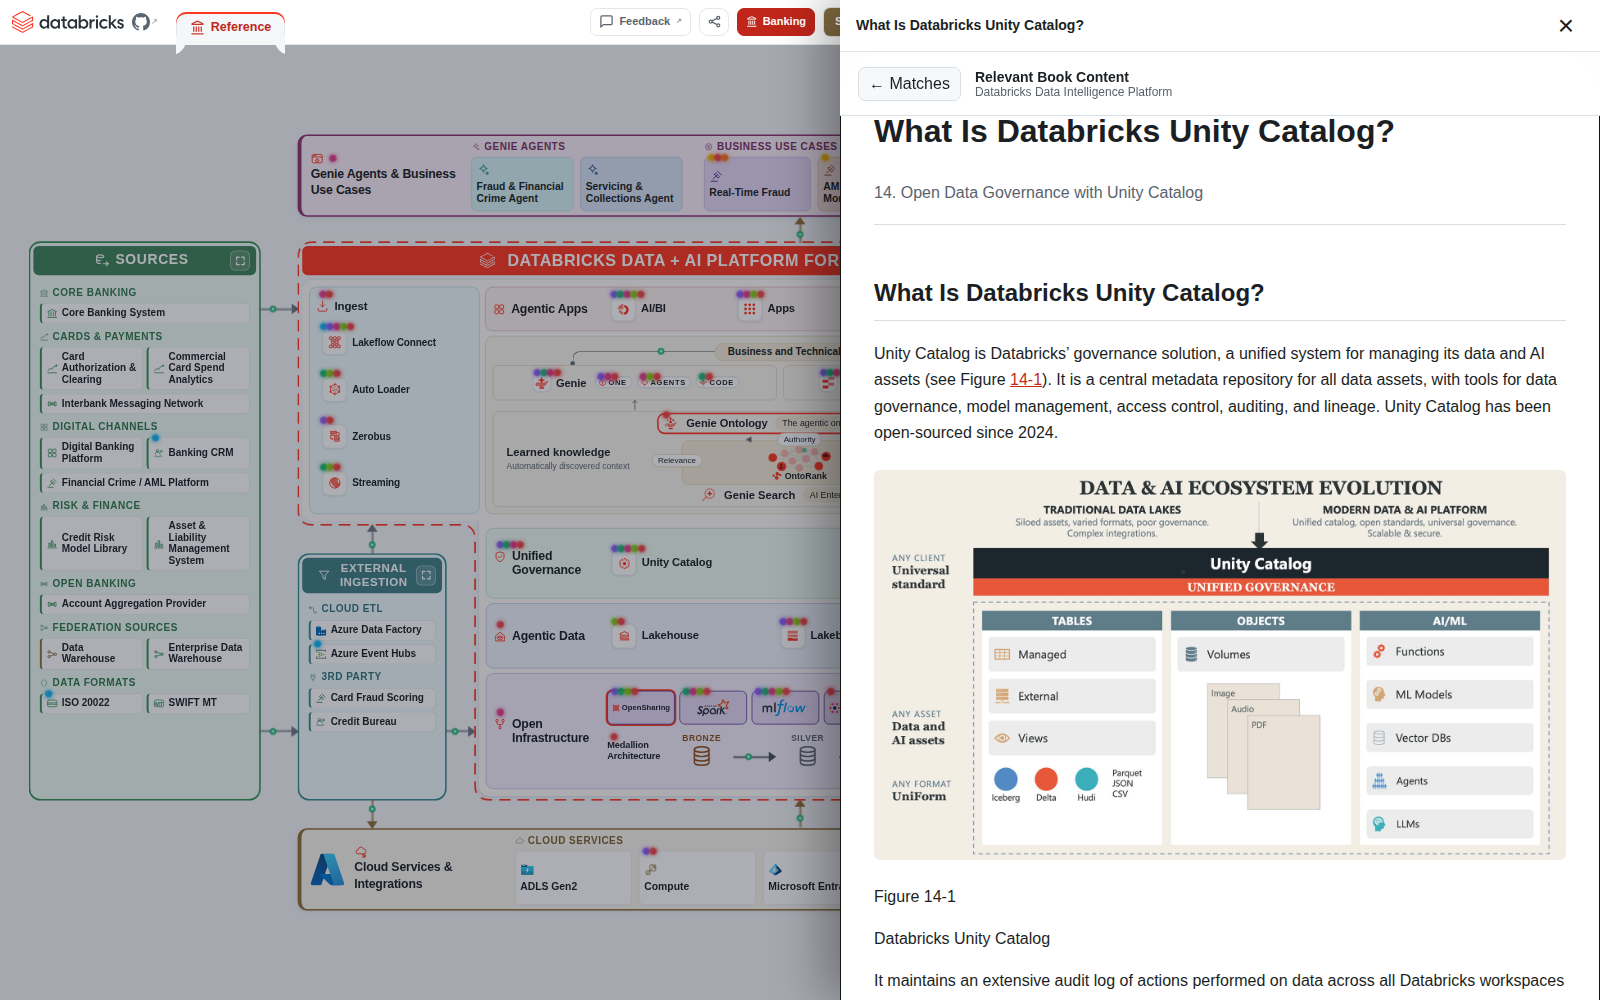
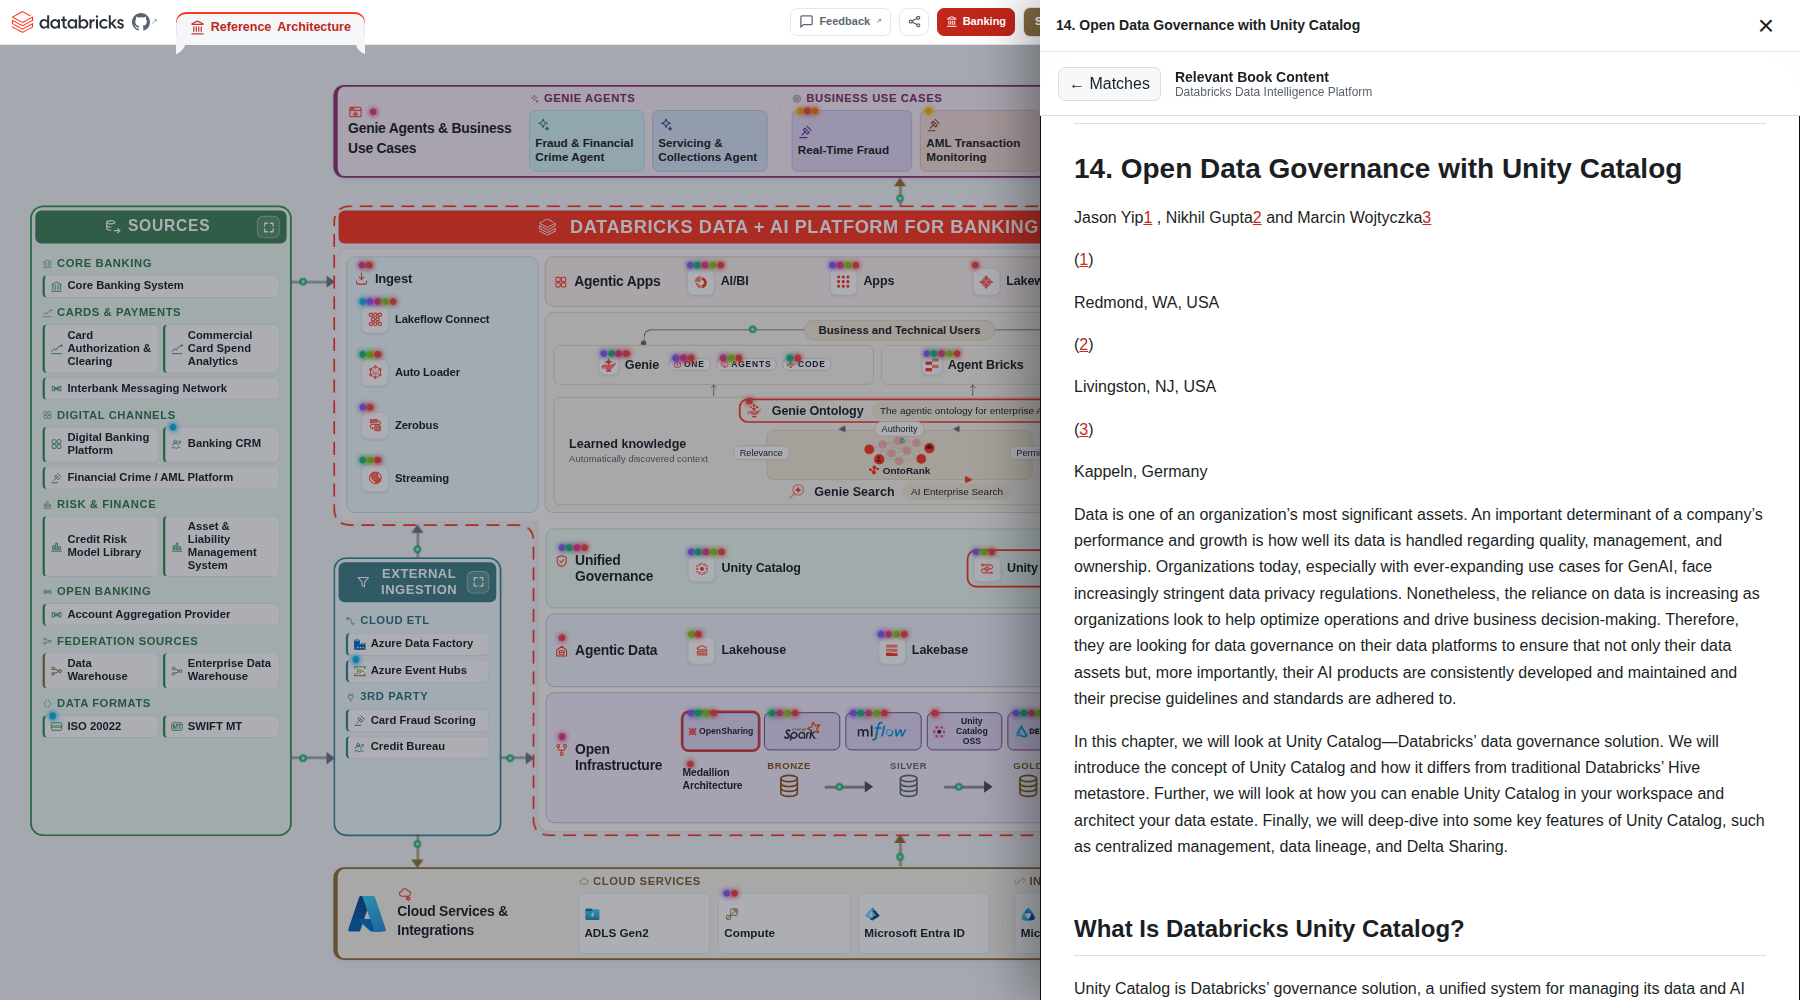
Improve book previews and add chapter view

diff --git a/addon/reader/reader.css b/addon/reader/reader.css
@@ -1,3 +1,3 @@
 :root{font-family:Inter,-apple-system,BlinkMacSystemFont,"Segoe UI",sans-serif;color:#1b1f24;background:#fff;--accent:#ff3621;--line:#d8dee4;--muted:#59636e;--panel:#f6f8fa;--code:#f3f4f6}
-*{box-sizing:border-box}body{margin:0;min-height:100vh;background:inherit;color:inherit}button{font:inherit}.reader-header{position:sticky;top:0;z-index:10;display:flex;align-items:center;gap:14px;min-height:64px;padding:10px 18px;border-bottom:1px solid var(--line);background:color-mix(in srgb,#fff 94%,transparent);backdrop-filter:blur(12px)}.reader-title{display:flex;flex-direction:column}.reader-title strong{font-size:14px}.reader-title span{font-size:12px;color:var(--muted)}.back-button{padding:7px 10px;border:1px solid var(--line);border-radius:7px;background:var(--panel);color:inherit;cursor:pointer}.content{width:min(780px,100%);margin:0 auto;padding:32px 34px 72px;line-height:1.65}.empty-state{padding:80px 24px;text-align:center;color:var(--muted)}.empty-state h1{color:inherit;font-size:1.35rem}.context-head{margin-bottom:22px}.context-head p{margin:.35rem 0 0;color:var(--muted)}.matches{display:grid;gap:12px}.match-card{display:block;width:100%;padding:16px;border:1px solid var(--line);border-radius:10px;background:var(--panel);color:inherit;text-align:left;cursor:pointer}.match-card:hover,.match-card:focus{border-color:var(--accent);box-shadow:0 0 0 2px color-mix(in srgb,var(--accent) 16%,transparent)}.match-card strong,.match-card span,.match-card small{display:block}.match-card span{margin-top:3px;color:var(--accent);font-weight:600}.match-card small{margin-top:7px;color:var(--muted);line-height:1.45}.passage-head{margin-bottom:28px;padding-bottom:18px;border-bottom:1px solid var(--line)}.passage-head p{margin:.3rem 0 0;color:var(--muted)}.passage h1{font-size:1.75rem;line-height:1.2}.passage h2{margin-top:2em;border-bottom:1px solid var(--line);padding-bottom:.3em}.passage h3{margin-top:1.7em}.passage a{color:#c52b19}.passage img{display:block;max-width:100%;height:auto;margin:24px auto;border-radius:6px}.passage pre{overflow:auto;padding:16px;border-radius:8px;background:var(--code)}.passage code{font-family:"SFMono-Regular",Consolas,monospace}.passage table{display:block;max-width:100%;overflow:auto;border-collapse:collapse}.passage th,.passage td{padding:8px 10px;border:1px solid var(--line);vertical-align:top}.passage blockquote{margin-left:0;padding-left:18px;border-left:4px solid var(--line);color:var(--muted)}.reader-license{margin-top:40px;padding-top:16px;border-top:1px solid var(--line);color:var(--muted);font-size:11px}.reader-license a{color:inherit}
+*{box-sizing:border-box}body{margin:0;min-height:100vh;background:inherit;color:inherit}button{font:inherit}.reader-header{position:sticky;top:0;z-index:10;display:flex;align-items:center;gap:14px;min-height:64px;padding:10px 18px;border-bottom:1px solid var(--line);background:color-mix(in srgb,#fff 94%,transparent);backdrop-filter:blur(12px)}.reader-title{display:flex;flex-direction:column}.reader-title strong{font-size:14px}.reader-title span{font-size:12px;color:var(--muted)}.back-button{padding:7px 10px;border:1px solid var(--line);border-radius:7px;background:var(--panel);color:inherit;cursor:pointer}.content{width:min(780px,100%);margin:0 auto;padding:32px 34px 72px;line-height:1.65}.empty-state{padding:80px 24px;text-align:center;color:var(--muted)}.empty-state h1{color:inherit;font-size:1.35rem}.context-head{margin-bottom:22px}.context-head p{margin:.35rem 0 0;color:var(--muted)}.matches{display:grid;gap:12px}.match-card{display:block;width:100%;padding:16px;border:1px solid var(--line);border-radius:10px;background:var(--panel);color:inherit;text-align:left;cursor:pointer}.match-card:hover,.match-card:focus{border-color:var(--accent);box-shadow:0 0 0 2px color-mix(in srgb,var(--accent) 16%,transparent)}.match-card strong,.match-card span,.match-card small{display:block}.match-card span{margin-top:3px;color:var(--accent);font-weight:600}.match-card small{margin-top:7px;color:var(--muted);line-height:1.45}.passage-head{margin-bottom:28px;padding-bottom:18px;border-bottom:1px solid var(--line)}.passage-head p{margin:.3rem 0 0;color:var(--muted)}.chapter-head{color:var(--muted);font-size:13px;text-transform:uppercase;letter-spacing:.06em}.passage h1{font-size:1.75rem;line-height:1.2}.passage h2{margin-top:2em;border-bottom:1px solid var(--line);padding-bottom:.3em}.passage h3{margin-top:1.7em}.passage a{color:#c52b19}.passage img{display:block;max-width:100%;height:auto;margin:24px auto;border-radius:6px}.passage pre{overflow:auto;padding:16px;border-radius:8px;background:var(--code)}.passage code{font-family:"SFMono-Regular",Consolas,monospace}.passage table{display:block;max-width:100%;overflow:auto;border-collapse:collapse}.passage th,.passage td{padding:8px 10px;border:1px solid var(--line);vertical-align:top}.passage blockquote{margin-left:0;padding-left:18px;border-left:4px solid var(--line);color:var(--muted)}.reader-license{margin-top:40px;padding-top:16px;border-top:1px solid var(--line);color:var(--muted);font-size:11px}.reader-license a{color:inherit}
 @media (prefers-color-scheme:dark){:root{color:#e6edf3;background:#0d1117;--line:#30363d;--muted:#9da7b3;--panel:#161b22;--code:#161b22}.reader-header{background:color-mix(in srgb,#0d1117 94%,transparent)}.passage a{color:#ff7463}}html.theme-dark{color:#e6edf3;background:#0d1117;--line:#30363d;--muted:#9da7b3;--panel:#161b22;--code:#161b22}html.theme-dark .reader-header{background:color-mix(in srgb,#0d1117 94%,transparent)}html.theme-dark .passage a{color:#ff7463}@media(max-width:700px){.reader-header{padding:9px 12px}.content{padding:24px 18px 60px}.reader-title span{display:none}.passage h1{font-size:1.45rem}}@media print{.reader-header{display:none}.content{max-width:none;padding:0}}

diff --git a/integration/addon-host.js b/integration/addon-host.js
@@ -35,16 +35,16 @@
 
   function close(){
     if(!current)return;current.remove();current=null;currentFrame=null;document.body.classList.remove("addon-open");
-    const params=new URLSearchParams(location.search);for(const key of ["addon","chapter","section"])params.delete(key);history.replaceState(history.state,"",location.pathname+(params.size?"?"+params.toString():"")+location.hash);if(opener)opener.focus();
+    const params=new URLSearchParams(location.search);for(const key of ["addon","chapter","section","bookView"])params.delete(key);history.replaceState(history.state,"",location.pathname+(params.size?"?"+params.toString():"")+location.hash);if(opener)opener.focus();
   }
 
   function sendContext(){if(currentFrame&&currentContext)currentFrame.contentWindow.postMessage({type:"databricks-addon-context",context:currentContext,matches:currentMatches},location.origin)}
-  function open(addon,button,match){
+  function open(addon,button,match,view="section"){
     close();const entry=sameOrigin(addon.entry);if(!entry)return;const params=new URLSearchParams(location.search);params.set("addon",addon.id);
-    if(match){params.set("chapter",match.chapter);params.set("section",match.section);entry.searchParams.set("chapter",match.chapter);entry.searchParams.set("section",match.section)}
+    if(match){params.set("chapter",match.chapter);entry.searchParams.set("chapter",match.chapter);params.set("bookView",view);entry.searchParams.set("view",view);if(view==="section"){params.set("section",match.section);entry.searchParams.set("section",match.section)}else params.delete("section")}
     history.replaceState(history.state,"",location.pathname+"?"+params.toString()+location.hash);entry.searchParams.set("embedded","1");entry.searchParams.set("theme",document.body.classList.contains("theme-dark")?"dark":"light");
     const shell=document.createElement("section");shell.className="addon-shell";shell.setAttribute("role","dialog");shell.setAttribute("aria-modal","true");shell.setAttribute("aria-label",addon.title);
-    const head=document.createElement("header");const title=document.createElement("strong");title.textContent=match?match.sectionTitle:addon.title;const closeButton=document.createElement("button");closeButton.type="button";closeButton.className="addon-close";closeButton.setAttribute("aria-label","Close "+addon.title);closeButton.textContent="×";closeButton.addEventListener("click",close);
+    const head=document.createElement("header");const title=document.createElement("strong");title.textContent=match?(view==="chapter"?match.chapterTitle:match.sectionTitle):addon.title;const closeButton=document.createElement("button");closeButton.type="button";closeButton.className="addon-close";closeButton.setAttribute("aria-label","Close "+addon.title);closeButton.textContent="×";closeButton.addEventListener("click",close);
     const frame=document.createElement("iframe");frame.src=entry.href;frame.title=addon.title;frame.loading="eager";frame.addEventListener("load",()=>{frame.contentWindow.addEventListener("keydown",event=>{if(event.key==="Escape")close()});sendContext()});
     head.append(title,closeButton);shell.append(head,frame);document.body.append(shell);current=shell;currentFrame=frame;opener=button;document.body.classList.add("addon-open");closeButton.focus();
   }
@@ -57,7 +57,10 @@
     body.dataset.bookContext=signature;currentContext=context;currentMatches=rank(context);body.querySelectorAll(".addon-context-card").forEach(node=>node.remove());
     if(!currentMatches.length){sendContext();return}
     const card=document.createElement("section");card.className="addon-context-card";const heading=document.createElement("h4");heading.textContent="From the book";card.append(heading);
-    for(const match of currentMatches){const button=document.createElement("button");button.type="button";button.className="addon-context-link";button.innerHTML="<strong></strong><span></span><em></em><b>Open passage →</b>";button.querySelector("strong").textContent=match.sectionTitle;button.querySelector("span").textContent=match.chapterTitle;button.querySelector("em").textContent=match.excerpt;button.addEventListener("click",()=>open(contextAddon,contextButton,match));card.append(button)}
+    for(const match of currentMatches){
+      const item=document.createElement("article");item.className="addon-context-link";item.innerHTML="<strong></strong><span></span><p></p><div class=\"addon-context-actions\"></div>";item.querySelector("strong").textContent=match.sectionTitle;item.querySelector("span").textContent=match.chapterTitle;item.querySelector("p").textContent=match.excerpt;
+      const actions=item.querySelector(".addon-context-actions");const sectionButton=document.createElement("button");sectionButton.type="button";sectionButton.textContent="Read section";sectionButton.addEventListener("click",()=>open(contextAddon,contextButton,match,"section"));const chapterButton=document.createElement("button");chapterButton.type="button";chapterButton.className="secondary";chapterButton.textContent="Open chapter";chapterButton.addEventListener("click",()=>open(contextAddon,contextButton,match,"chapter"));actions.append(sectionButton,chapterButton);card.append(item);
+    }
     body.prepend(card);sendContext();
   }
 

diff --git a/integration/addon-host.css b/integration/addon-host.css
@@ -1,1 +1,1 @@
-.addon-slot{display:flex;align-items:center}.addon-launcher svg{width:16px;height:16px;fill:none;stroke:currentColor;stroke-width:1.7;stroke-linejoin:round}.addon-context-card{margin:0 0 22px;padding:0 0 16px;border-bottom:1px solid var(--line,#d8dee4)}.addon-context-link{display:block;width:100%;margin:8px 0;padding:10px 12px;border:1px solid var(--line,#d8dee4);border-radius:8px;background:var(--paper,#fff);color:inherit;text-align:left;cursor:pointer}.addon-context-link:hover,.addon-context-link:focus{border-color:var(--brand,#ff3621);box-shadow:0 0 0 2px color-mix(in srgb,var(--brand,#ff3621) 14%,transparent)}.addon-context-link strong,.addon-context-link span,.addon-context-link em,.addon-context-link b{display:block}.addon-context-link span{margin-top:3px;color:var(--muted,#59636e);font-size:11px}.addon-context-link em{display:none;margin-top:8px;color:var(--ink,#1b1f24);font-size:12px;font-style:normal;line-height:1.45}.addon-context-link b{display:none;margin-top:7px;color:var(--brand,#ff3621);font-size:11px}.addon-context-link:hover em,.addon-context-link:focus em,.addon-context-link:hover b,.addon-context-link:focus b{display:block}.addon-shell{position:fixed;z-index:10020;top:0;right:0;bottom:0;width:min(760px,92vw);display:grid;grid-template-rows:52px 1fr;background:var(--paper,#fff);box-shadow:-16px 0 48px #0005}.addon-shell>header{display:flex;align-items:center;justify-content:space-between;padding:0 16px;border-bottom:1px solid var(--line,#d8dee4);background:var(--paper,#fff)}.addon-shell iframe{width:100%;height:100%;border:0;background:#fff}.addon-close{width:36px;height:36px;border:0;border-radius:7px;background:transparent;color:inherit;font-size:28px;line-height:1;cursor:pointer}.addon-close:hover{background:#8882}.addon-open{overflow:hidden}@media(max-width:700px){.addon-shell{width:100vw}.addon-launcher span{display:none}.addon-context-link em,.addon-context-link b{display:block}}@media print{.addon-slot,.addon-context-card,.addon-shell{display:none!important}}
+.addon-slot{display:flex;align-items:center}.addon-launcher svg{width:16px;height:16px;fill:none;stroke:currentColor;stroke-width:1.7;stroke-linejoin:round}.addon-context-card{margin:0 0 22px;padding:0 0 18px;border-bottom:1px solid var(--line,#d8dee4)}.addon-context-card>h4{margin:0 0 10px;font-size:14px}.addon-context-link{display:block;width:100%;margin:10px 0;padding:14px;border:1px solid color-mix(in srgb,var(--brand,#ff3621) 28%,var(--line,#d8dee4));border-left:4px solid var(--brand,#ff3621);border-radius:8px;background:color-mix(in srgb,var(--brand,#ff3621) 5%,var(--paper,#fff));color:inherit;text-align:left}.addon-context-link:hover,.addon-context-link:focus-within{border-color:var(--brand,#ff3621);box-shadow:0 0 0 2px color-mix(in srgb,var(--brand,#ff3621) 12%,transparent)}.addon-context-link strong,.addon-context-link span{display:block}.addon-context-link strong{font-size:13px;line-height:1.35}.addon-context-link span{margin-top:4px;color:var(--muted,#59636e);font-size:11px;line-height:1.35}.addon-context-link p{display:-webkit-box;overflow:hidden;margin:10px 0 0;color:var(--ink,#1b1f24);font-size:12px;line-height:1.55;-webkit-box-orient:vertical;-webkit-line-clamp:4}.addon-context-actions{display:flex;gap:8px;margin-top:12px}.addon-context-actions button{padding:7px 10px;border:1px solid var(--brand,#ff3621);border-radius:6px;background:var(--brand,#ff3621);color:#fff;font-size:11px;font-weight:700;cursor:pointer}.addon-context-actions button.secondary{background:transparent;color:var(--brand,#ff3621)}.addon-context-actions button:hover,.addon-context-actions button:focus{filter:brightness(.92);box-shadow:0 0 0 2px color-mix(in srgb,var(--brand,#ff3621) 18%,transparent)}.addon-shell{position:fixed;z-index:10020;top:0;right:0;bottom:0;width:min(760px,92vw);display:grid;grid-template-rows:52px 1fr;background:var(--paper,#fff);box-shadow:-16px 0 48px #0005}.addon-shell>header{display:flex;align-items:center;justify-content:space-between;padding:0 16px;border-bottom:1px solid var(--line,#d8dee4);background:var(--paper,#fff)}.addon-shell iframe{width:100%;height:100%;border:0;background:#fff}.addon-close{width:36px;height:36px;border:0;border-radius:7px;background:transparent;color:inherit;font-size:28px;line-height:1;cursor:pointer}.addon-close:hover{background:#8882}.addon-open{overflow:hidden}@media(max-width:700px){.addon-shell{width:100vw}.addon-launcher span{display:none}.addon-context-actions{flex-wrap:wrap}}@media print{.addon-slot,.addon-context-card,.addon-shell{display:none!important}}

diff --git a/integration/smoke_addon.js b/integration/smoke_addon.js
@@ -17,14 +17,17 @@ function check(name,value,detail){checks.push(!!value);console.log((value?'PASS 
     check('book references are prioritized above other resources',await page.locator('#d-body > :first-child').evaluate(node=>node.classList.contains('addon-context-card')));
     const labels=await page.locator('.addon-context-link').allTextContents();
     check('the selected architecture box gets mapped to subsections',labels.length>0&&labels.join(' ').includes('Unity Catalog')&&!labels[0].startsWith('14. Open Data Governance'),labels.join(' | '));
-    await page.locator('.addon-context-link').first().hover();
-    check('hover reveals a concise book preview',await page.locator('.addon-context-link em').first().isVisible());
-    await page.locator('.addon-context-link').first().click();
+    check('the concise book preview is readable without hover',await page.locator('.addon-context-link p').first().isVisible());
+    check('section and chapter actions are both available',await page.locator('.addon-context-link').first().getByRole('button').count()===2);
+    await page.locator('.addon-context-link').first().getByRole('button',{name:'Read section'}).click();
     const frame=page.frameLocator('.addon-shell iframe');await frame.locator('.passage').waitFor();
     check('only the selected passage opens',await frame.locator('.chapters').count()===0&&await frame.locator('.passage').count()===1);
     check('passage state reaches the parent URL',/[?&]chapter=/.test(page.url())&&/[?&]section=/.test(page.url()));
     await page.evaluate(()=>document.body.classList.add('theme-dark'));await frame.locator('html.theme-dark').waitFor();check('passage follows board theme',await frame.locator('html').getAttribute('class')==='theme-dark');
     await frame.locator('#content').press('Escape');check('Escape closes the add-on',await page.locator('.addon-shell').count()===0);
+    await page.locator('.addon-context-link').first().getByRole('button',{name:'Open chapter'}).click();
+    const chapterFrame=page.frameLocator('.addon-shell iframe');await chapterFrame.locator('.chapter-view').waitFor();
+    check('open chapter renders the complete chapter',await chapterFrame.locator('.chapter-view h2').count()>1);
   }finally{await browser.close();await new Promise(resolve=>server.close(resolve))}
   if(checks.some(value=>!value))process.exitCode=1;
 })().catch(error=>{console.error(error);process.exitCode=1});

diff --git a/addon/reader/reader.js b/addon/reader/reader.js
@@ -25,9 +25,16 @@
     const params=query();params.set("chapter",chapter.slug);params.set("section",section.id);history.replaceState({},"",location.pathname+"?"+params.toString());content.scrollIntoView();content.focus({preventScroll:true});
   }
 
+  function openChapter(chapterSlug){
+    const chapter=book&&book.chapters.find(item=>item.slug===chapterSlug);if(!chapter)return;
+    back.hidden=!currentMatches.length;
+    content.innerHTML='<header class="passage-head chapter-head"><strong>Complete chapter</strong></header><article class="passage chapter-view"></article>'+license();content.querySelector(".passage").innerHTML=chapter.sections.map(section=>section.html).join("");
+    const params=query();params.set("chapter",chapter.slug);params.set("view","chapter");params.delete("section");history.replaceState({},"",location.pathname+"?"+params.toString());content.scrollIntoView();content.focus({preventScroll:true});
+  }
+
   back.addEventListener("click",()=>renderMatches(currentContext,currentMatches));
   addEventListener("message",event=>{if(event.origin!==location.origin||!event.data)return;if(event.data.type==="databricks-addon-theme")setTheme(event.data.theme);if(event.data.type==="databricks-addon-context")renderMatches(event.data.context,event.data.matches)});
   document.addEventListener("keydown",event=>{if(event.key==="Escape"&&query().get("embedded")==="1")parent.postMessage({type:"databricks-addon-close"},location.origin)});
-  fetch("book.json",{cache:"no-store"}).then(response=>response.json()).then(data=>{book=data;const params=query();if(params.get("chapter"))openPassage(params.get("chapter"),params.get("section"))}).catch(()=>{content.innerHTML='<section class="empty-state"><h1>Book content unavailable</h1></section>'});
+  fetch("book.json",{cache:"no-store"}).then(response=>response.json()).then(data=>{book=data;const params=query();if(params.get("chapter")){if(params.get("view")==="chapter")openChapter(params.get("chapter"));else openPassage(params.get("chapter"),params.get("section"))}}).catch(()=>{content.innerHTML='<section class="empty-state"><h1>Book content unavailable</h1></section>'});
   setTheme(query().get("theme"));
 })();

diff --git a/README.md b/README.md
@@ -4,7 +4,7 @@ Welcome to the repository for the **GenAI Book**. This repository contains the m
 
 ## Interactive Architecture Add-on
 
-This repository maps the book back to the [Databricks Reference Architecture](https://github.com/databricks-industry-solutions/databricks-reference-architecture). Selecting an architecture component puts a prioritized **From the book** section at the top of its detail panel, ahead of documentation, articles, demos, and videos. Results map to relevant subsection headings rather than whole chapters. Hovering or focusing reveals a concise preview in place; opening the passage is optional. The integration uses a same-origin add-on manifest and iframe, so book code remains isolated from the architecture renderer.
+This repository maps the book back to the [Databricks Reference Architecture](https://github.com/databricks-industry-solutions/databricks-reference-architecture). Selecting an architecture component puts a prioritized **From the book** section at the top of its detail panel, ahead of documentation, articles, demos, and videos. Results map to relevant subsection headings, show a readable inline preview, and offer explicit actions to read the section or open its complete chapter. The integration uses a same-origin add-on manifest and iframe, so book code remains isolated from the architecture renderer.
 
 - Run `npm install && npm test` to validate all chapters, images, and integration assembly.
 - Run `npm run build` to generate the standalone reader in `dist/book`.
@@ -16,7 +16,7 @@ The upstream contribution consists only of `integration/addon-host.js`, `integra
 
 ![Unity Catalog detail panel mapped to three relevant passages from the book](docs/book-addon-overview.png)
 
-![A single Unity Catalog passage opened beside the architecture](docs/book-addon-search.png)
+![The complete Unity Catalog chapter opened beside the architecture](docs/book-addon-search.png)
 
 ## 🌟 Praise for the Book
 
